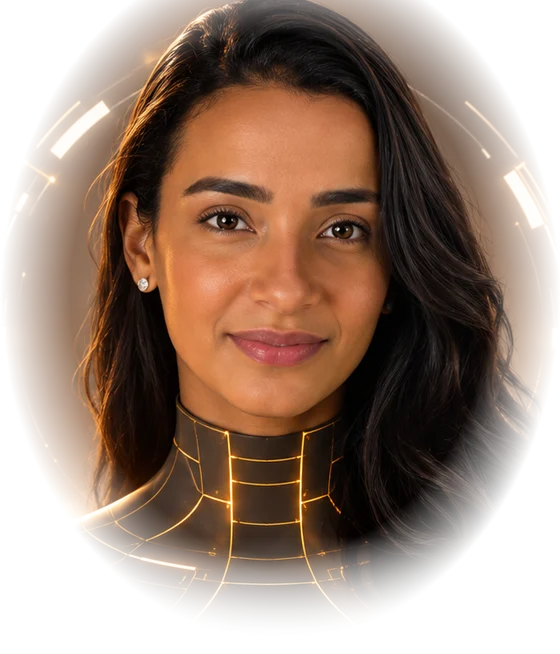
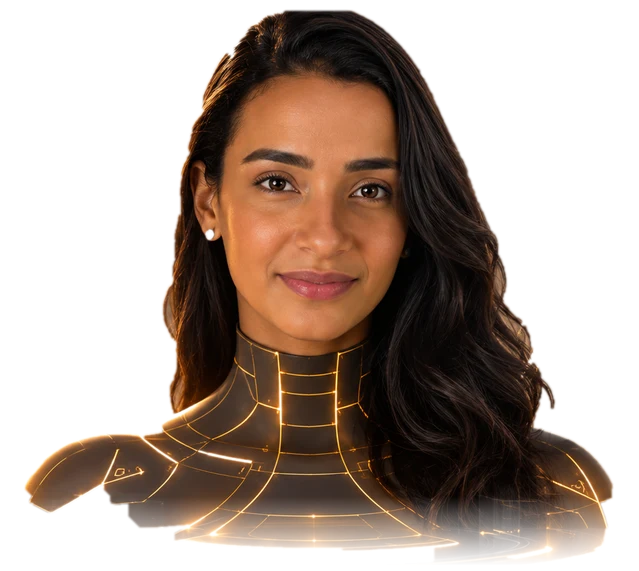
ÍRIS sem círculo: busto recortado sobre plataforma de luz
Claude-Session: https://claude.ai/code/session_015pzTWbodNo9QWnJy6AGNZv

diff --git a/css/hud.css b/css/hud.css
@@ -207,14 +207,20 @@ html.booting body{overflow:hidden}
   .boot-in .corebox,.boot-in .hello-m,.boot-in .hero-copy,.boot-in .nn-line{animation:none;opacity:1;transform:none}
 }
 
-/* ---------- a ÍRIS em pessoa: retrato holográfico no centro dos anéis ---------- */
-.iris-av{position:absolute;left:50%;top:45%;width:66%;height:auto;transform:translate(-50%,-50%);z-index:1;pointer-events:none;user-select:none;-webkit-user-select:none;
-  filter:drop-shadow(0 0 28px rgba(255,170,80,.28));animation:avBreath 7s ease-in-out infinite}
-@keyframes avBreath{50%{transform:translate(-50%,-50.7%) scale(1.012)}}
-.corebox #reactor{opacity:.5;mix-blend-mode:screen}
-:root[data-theme="light"] .corebox #reactor{opacity:.35;mix-blend-mode:multiply}
+/* ---------- a ÍRIS em pessoa, sem círculo: busto sobre uma plataforma de luz ---------- */
+.corebox .hudring{display:none}
+.corebox #reactor{opacity:0}
 .corebox .corename{display:none}
-.corebox.diving .iris-av{opacity:0;transition:opacity .4s}
+.iris-av{position:absolute;left:50%;bottom:9%;width:96%;height:auto;transform:translateX(-50%);z-index:2;pointer-events:none;user-select:none;-webkit-user-select:none;
+  filter:drop-shadow(0 18px 30px rgba(0,0,0,.35)) drop-shadow(0 0 22px rgba(255,170,80,.18));animation:avBreath 7s ease-in-out infinite}
+@keyframes avBreath{50%{transform:translateX(-50%) translateY(-.6%) scale(1.01)}}
+.corebox::before,.corebox::after{content:"";position:absolute;left:50%;transform:translateX(-50%);border-radius:50%;pointer-events:none;z-index:1}
+.corebox::before{bottom:4%;width:104%;height:22%;border:1px solid rgba(255,194,122,.35);box-shadow:0 0 30px rgba(255,170,80,.18),inset 0 0 40px rgba(255,170,80,.12);
+  background:radial-gradient(closest-side,rgba(255,196,120,.42),rgba(255,170,80,.12) 55%,transparent 75%)}
+.corebox::after{bottom:9%;width:70%;height:12%;border:1.5px solid rgba(255,214,160,.75);box-shadow:0 0 18px rgba(255,190,110,.6),inset 0 0 14px rgba(255,190,110,.35)}
+:root[data-theme="light"] .corebox::before{border-color:rgba(184,115,44,.35);background:radial-gradient(closest-side,rgba(235,180,110,.45),rgba(235,180,110,.12) 55%,transparent 75%)}
+:root[data-theme="light"] .corebox::after{border-color:rgba(184,115,44,.6);box-shadow:0 0 14px rgba(200,130,50,.35)}
+.corebox.diving .iris-av,.corebox.diving::before,.corebox.diving::after{opacity:0;transition:opacity .4s}
 @media (prefers-reduced-motion:reduce){.iris-av{animation:none}}
 /* atalhos como painéis de vidro, como na referência */
 .hbtn{justify-content:flex-start;gap:12px;padding:0 16px;background:linear-gradient(100deg,rgba(255,214,160,.10),rgba(255,214,160,.02));border:1px solid var(--glass-b);color:var(--ink);backdrop-filter:blur(12px);-webkit-backdrop-filter:blur(12px)}

diff --git a/index.html b/index.html
@@ -10,7 +10,7 @@
 <link rel="icon" type="image/png" sizes="512x512" href="icon-512.png?v=2">
 <link rel="stylesheet" href="css/iris.css?v=62">
 <link rel="stylesheet" href="css/identidade.css?v=62">
-<link rel="stylesheet" href="css/hud.css?v=62">
+<link rel="stylesheet" href="css/hud.css?v=63">
 <link rel="stylesheet" href="css/moto.css?v=62">
 </head><body>
 <div id="boot" aria-hidden="true">
@@ -143,7 +143,7 @@
             <button class="core" id="core" type="button" aria-label="Tocar para a ÍRIS falar com você"><canvas id="reactor"></canvas></button>
             <button class="orbmic" id="orbMic" type="button" aria-label="Falar com a ÍRIS"><svg class="i"><use href="#i-mic"/></svg></button>
             <span class="corename" id="coreName" aria-hidden="true">ÍRIS</span>
-            <img class="iris-av" src="assets/iris-avatar.webp?v=1" alt="" aria-hidden="true" draggable="false">
+            <img class="iris-av" src="assets/iris-avatar.webp?v=2" alt="" aria-hidden="true" draggable="false">
           </div>
           <div class="nn-line" id="nnSel"><span class="nn-k">Área ativa</span><b class="nn-n" id="nnName">Pessoal</b><span class="nn-i" id="nnInfo" aria-live="polite"></span><a class="nn-go" id="nnGo" href="#pessoal">Abrir</a><button class="nn-go nn-enter" id="nnEnter" type="button" aria-label="Entrar na ÍRIS">Entrar</button></div>
         </div>
